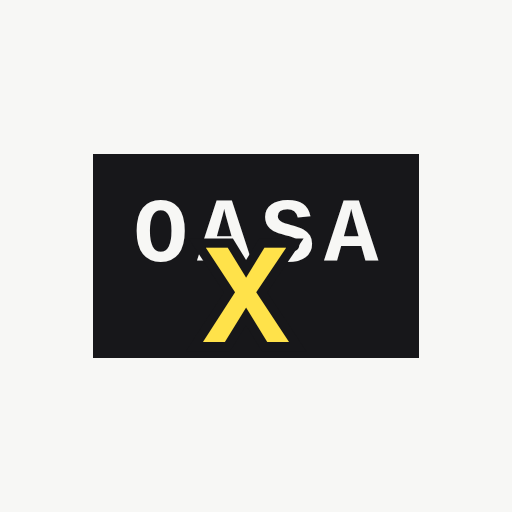
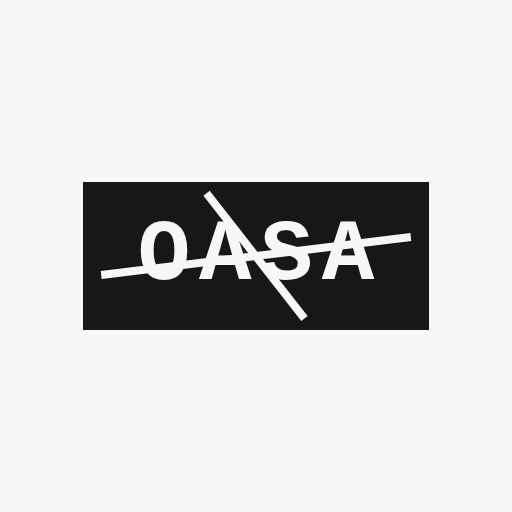
v55: one mark, and it is the struck one
There were two drawings of this logo. The splash wore the original
black-and-white strike; the icons and the tour card wore a yellow X stamped
on the name. That is exactly the drift tools/icons.mjs exists to prevent,
and it went straight to the launcher, where it is hardest to notice and
hardest to take back.

Now there is one. OASA in white on a black block, struck through by a
near-horizontal rule and a steeper one crossing it off-square — the skew is
the joke, a clean X would read as a logo. The splash, the last tour card
and all three PWA icons draw it from the same rules; the header keeps the
wordmark and is untouched.

The rules are in em, so one description scales from 17px on a tour card to
512 across in a launcher, and .mark pins line-height so the block's height
is predictable enough for the generator to reproduce rather than approach.
.splash .mark is now a font size and nothing else. Icon scales went up,
because the struck lockup is wider and shallower than the stamped one and
the old fraction left it floating.

test/brand.mjs stops looking for yellow and starts looking for the strike:
no warm pixels anywhere, the block's width-to-height matching the current
lockup — 2.27, against 1.56 for the one it replaced — and enough white ink
on it to prove the word and the rules are drawn.

631 assertions across twelve suites.

Claude-Session: https://claude.ai/code/session_01SZKQHeoQ2gLgYayQyk6pn2

Changed region(s): [[0.1562, 0.2812, 0.8438, 0.7188]]

diff --git a/public/index.html b/public/index.html
@@ -72,23 +72,27 @@
   header{position:sticky;top:0;z-index:800;background:var(--paper);
     padding:14px 16px 10px;margin:0 -16px 2px;border-bottom:1px solid var(--rule)}
   .brand{display:flex;align-items:center;gap:9px}
-  /* Deeper at the bottom than the top: that is the room the X hangs in. */
-  .mark{background:var(--toner);color:var(--paper);padding:5px 7px 10px;font-weight:700;
-    font-size:12px;letter-spacing:.1em;flex:none;position:relative}
-  /* One yellow X, not a strikeout. It sits on the seam between the second
-     A and the S — the middle of the word — and low, in the bottom third,
-     so OASA still reads in full above it and the X lands as a stamp on
-     the name rather than a line cancelling it. Set as a glyph in the same
-     mono face as the letters, so it belongs to the same alphabet.
-     `paint-order` keeps the dark stroke outside the yellow instead of
-     eating into it; the shadow is the fallback where that is ignored, and
-     is invisible under the stroke where it is not. */
-  .mark::after{content:"X";position:absolute;left:calc(50% - 2px);top:74%;
-    transform:translate(-50%,-50%);
-    font:700 19px/1 var(--mono);letter-spacing:0;color:var(--marker);
-    -webkit-text-stroke:2.5px var(--toner);paint-order:stroke fill;
-    text-shadow:0 0 1px var(--toner),0 0 1px var(--toner);
-    pointer-events:none}
+  /* One mark, everywhere it appears: OASA in white on a black block, struck
+     through by two white rules that cross off-square. That skew is the whole
+     idea — a clean X would read as a logo, a lopsided one reads as something
+     scratched out by hand, which is the joke the name is making.
+
+     Every measurement below is in em, so the same rule set draws the splash
+     at 34px, the tour card at 17px and the launcher icon at whatever size
+     the generator asks for. `line-height:1` is what makes the box height
+     predictable enough for the icon to be the same lockup rather than a
+     near-miss; `text-indent` gives back the trailing space that
+     letter-spacing adds after the final A, so the word sits on the centre. */
+  .mark{background:var(--toner);color:var(--paper);padding:.35em .53em;font-weight:700;
+    font-size:12px;line-height:1;letter-spacing:.1em;text-indent:.1em;
+    flex:none;position:relative}
+  .mark::before,.mark::after{content:"";position:absolute;top:50%;
+    height:.09em;background:var(--paper);pointer-events:none}
+  /* the long one, near-horizontal, running the width of the block */
+  .mark::after{left:.2em;right:.2em;transform:translateY(-.045em) rotate(-7deg)}
+  /* and the short steep one it crosses */
+  .mark::before{left:50%;width:1.82em;margin-left:-.91em;
+    transform:translateY(-.045em) rotate(52deg)}
   /* One word now, so the two-line stack that made the old pun work is gone.
      Everything else about it is the same: mono, bold, uppercase, tracked. */
   .wordmark{display:flex;align-items:baseline;margin:0;line-height:1;
@@ -517,8 +521,7 @@
   .art-plan{width:52px;height:52px}
   .art-plan .ab{font-size:15px}
   .art-bell{font-size:34px;line-height:1}
-  .art-mark{font-size:17px;padding:7px 9px 14px}
-  .art-mark::after{font-size:27px;-webkit-text-stroke-width:3.5px}
+  .art-mark{font-size:17px}
   /* ---------------------------- the FAQ ---------------------------- */
   .faq{border-top:1px dashed var(--rule)}
   .faq:last-of-type{border-bottom:1px dashed var(--rule)}
@@ -803,16 +806,8 @@
      crossed rules, no colour. The yellow X is the app's icon and the thing
      a launcher shows; putting the plain strike here keeps the opening
      frame quiet, and the two are different by choice rather than drift. */
-  .splash .mark{font-size:34px;padding:12px 18px;letter-spacing:.1em;
-    animation:splashin .32s ease-out}
-  .splash .mark::after{content:"";position:static;font:0/0 a;color:transparent;
-    -webkit-text-stroke:0;text-shadow:none;transform:none}
-  .splash .mark::before,.splash .mark::after{
-    content:"";position:absolute;height:3px;background:var(--paper);
-    top:50%;-webkit-text-stroke:0;text-shadow:none}
-  .splash .mark::after{left:7px;right:7px;transform:translateY(-1.5px) rotate(-7deg)}
-  .splash .mark::before{left:50%;width:62px;margin-left:-31px;
-    transform:translateY(-1.5px) rotate(52deg)}
+  /* Nothing to redraw here any more — the mark is the mark. Only its size. */
+  .splash .mark{font-size:34px;animation:splashin .32s ease-out}
   @keyframes splashin{from{opacity:0;transform:scale(.94)}to{opacity:1;transform:none}}
   @media (prefers-reduced-motion:reduce){
     .splash{transition:none} .splash .mark{animation:none}
@@ -882,7 +877,7 @@
 
   <main id="list"><div class="msg" id="boot">Εντοπισμός κοντινών στάσεων…</div></main>
   <button class="wake" id="wake">↻ <span id="wake-t"></span></button>
-  <div class="foot"><span class="ver">v54</span></div>
+  <div class="foot"><span class="ver">v55</span></div>
 </div>
 
 <div class="sheet-bg" id="sheetbg"><div class="sheet">
@@ -5007,7 +5002,7 @@ function openAbout(){
     <p style="margin-top:14px"><a href="./legal.html#terms">${esc(t("openTerms"))}</a>
       · <a href="./legal.html#privacy">${esc(t("openPrivacy"))}</a></p>
     <p><a href="mailto:oasax@proton.me?subject=Source">${esc(t("srcLink"))}</a></p>
-    <p class="ver" style="letter-spacing:.1em;margin-top:10px">OASAx · v54</p>
+    <p class="ver" style="letter-spacing:.1em;margin-top:10px">OASAx · v55</p>
     <p class="ver">${esc(t("mapsAttr"))}</p></div>`;
   $("#aboutbg").classList.add("on");
 }

diff --git a/worker.js b/worker.js
@@ -38,7 +38,7 @@
  * them the app still works fully, alerts just report "not configured".
  */
 
-const APP_VERSION = "v54";
+const APP_VERSION = "v55";
 const OASA = "https://telematics.oasa.gr/api/";
 const NOMINATIM = "https://nominatim.openstreetmap.org/";
 const UA = "StopArrivals/1.0 (personal transit PWA)";

diff --git a/README.md b/README.md
@@ -3,7 +3,7 @@
 A clean, fast web/mobile view of live bus & trolley arrivals for the stops nearest you,
 built on the unofficial OASA telematics API. One Cloudflare Worker serves the whole
 app and proxies the API. Installs on Android and iOS like a native app. **Current
-version: v54.**
+version: v55.**
 
 **The top bar** is three buttons — live reports (the orange dot), alerts 🔔, and a ☰ menu
 holding [look up a line](#search--lines-and-stops) and **Settings** (language, whether to
@@ -35,7 +35,7 @@ See [Live reports](#live-reports) for the exact rules.
 | `public/legal.html` | Terms + privacy, as served in the app (☰ → Terms & privacy). **Bilingual**: it reads the same `lang` setting the app writes, so nobody who set the app to Greek lands on an English wall of terms. `?lang=` overrides it for a shared link, and a button switches the page without rewriting the app's setting. |
 | `LICENSE`, `PRIVACY.md`, `TERMS.md` | AGPL-3.0 and the documents the hosted service runs under — see [Legal](#legal). |
 | `PARAMETERS.md` | **Every tunable number in one table** — radii, lifetimes, rate limits, cost dials. |
-| `test/` | `npm test` — 620 assertions across twelve suites. The routing engine and the geocoder run in a `vm` against fixtures (no network, no quota); the report suite reads the source; the tile, journey, brand, legal, install, usage, origin, fixes and ui suites drive a real browser via Playwright. |
+| `test/` | `npm test` — 631 assertions across twelve suites. The routing engine and the geocoder run in a `vm` against fixtures (no network, no quota); the report suite reads the source; the tile, journey, brand, legal, install, usage, origin, fixes and ui suites drive a real browser via Playwright. |
 | `public/_headers` | Security headers for the static files (HSTS, nosniff, frame-deny, referrer and permissions policy), applied by Cloudflare's asset server. |
 | `tools/icons.mjs` | `npm run icons` — rebuilds the PWA icons from the mark. Run it whenever `.mark` changes; `test/brand.mjs` fails if you don't. |
 
@@ -250,9 +250,19 @@ the app to one domain.
 
 `npm run icons` rebuilds `icon-192`, `icon-512` and `icon-maskable-512` from the CSS mark
 rather than from a separate drawing, because two drawings of one logo drift and the drift
-is invisible until somebody installs the app and gets last year's icon. `test/brand.mjs`
-looks for the mark's yellow in the icons' actual pixels, so forgetting to run it fails
-the suite instead of shipping.
+is invisible until somebody installs the app and gets last year's icon. That is not
+hypothetical here: for several versions the icon and the header wore a yellow X stamped on
+the name while the splash kept the black-and-white strike, and the launcher ended up with
+the one nobody meant to ship. There is one mark now — OASA struck through by two white
+rules crossing off-square — and the splash, the tour card and all three icons draw it from
+the same rules.
+
+Those rules are measured in em, so one description scales from 17px on a tour card to 512
+across in a launcher, and `.mark` pins `line-height` so the block's height is predictable
+enough for the generator to reproduce it exactly. `test/brand.mjs` reads the icons' pixels:
+no yellow anywhere, the block's width-to-height matching the current lockup, and enough
+white ink on it to prove the word and the strike are actually drawn. Forgetting to run
+`npm run icons` fails the suite instead of shipping.
 
 ## Ship it as a real Play Store app (optional)
 

diff --git a/PARAMETERS.md b/PARAMETERS.md
@@ -1,7 +1,7 @@
 # Tunable parameters
 
 Every arbitrary number in the app, in one place, with where it lives and what
-breaks if you change it. Values here are the **v54 defaults** — if you edit the
+breaks if you change it. Values here are the **v55 defaults** — if you edit the
 source, edit this table too.
 
 Two files hold almost everything: **`public/index.html`** (the app) and
@@ -402,9 +402,13 @@ and suppressing a stop because you are standing on it would remove it as a desti
 | `minMs` | **420 ms** | Shortest the mark is ever on screen. | Below this a warm cache makes it strobe. |
 | `maxMs` | **2 200 ms** | Longest, whatever the network is doing. | This is the promise that a dead network cannot trap anyone on a logo. |
 
-The mark lives here and only here; the header carries the wordmark alone. It is painted
-from markup rather than added by script, so it is up in the first frame instead of after a
-white flash. The first-run carousel waits for it to clear before opening.
+The header carries the wordmark alone; the graphic mark appears on the splash, on the
+last tour card and in the launcher icons, and all three draw the same `.mark` rules —
+OASA on a black block, struck by a near-horizontal white rule and a steeper one crossing
+it. Everything about those rules is in em, so `.splash .mark` sets a font size and nothing
+else. The splash is painted from markup rather than added by script, so it is up in the
+first frame instead of after a white flash. The first-run carousel waits for it to clear
+before opening.
 
 ### Address search
 

diff --git a/DEPLOY.md b/DEPLOY.md
@@ -259,7 +259,7 @@ there is nothing to configure and no certificate to buy.
 ```powershell
 curl https://oasax.com/health
 ```
-You want `{"ok":true,"version":"v54",...}` — the same version your Worker reports. A
+You want `{"ok":true,"version":"v55",...}` — the same version your Worker reports. A
 registrar parking page or a certificate error means step 1 or 2 has not finished yet.
 Then open `https://oasax.com` on your phone and check the board fills.
 
